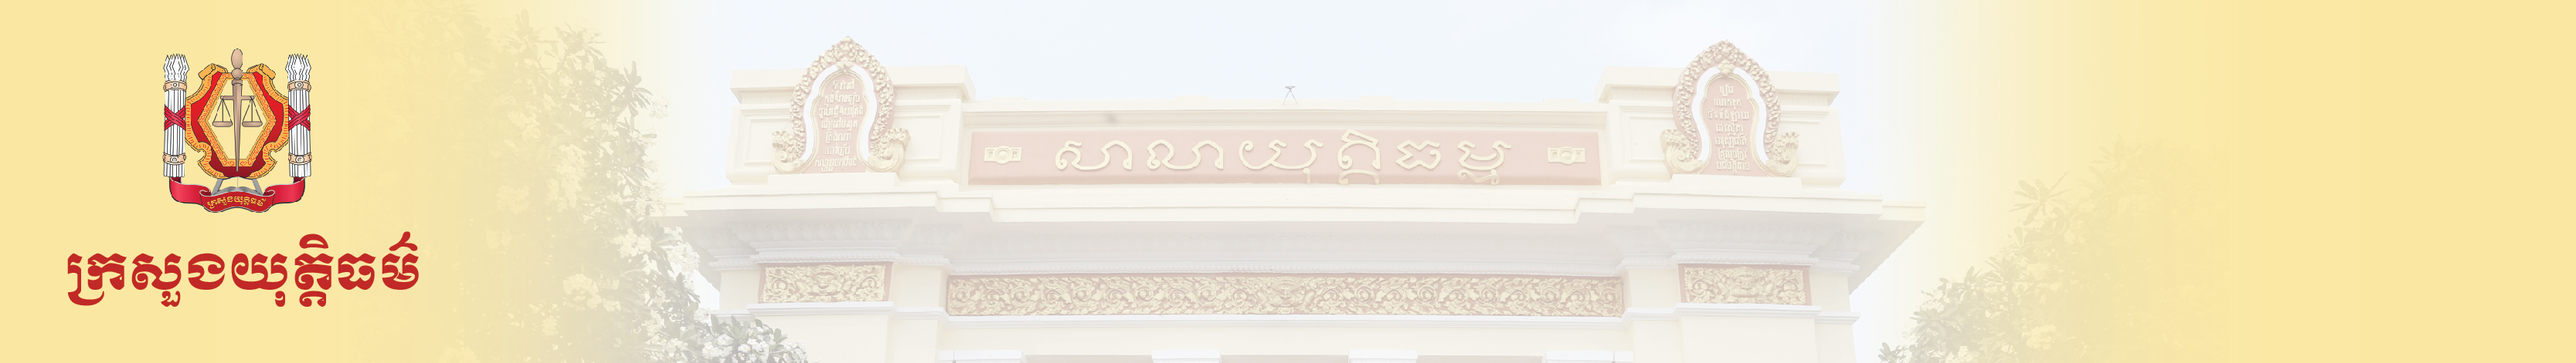
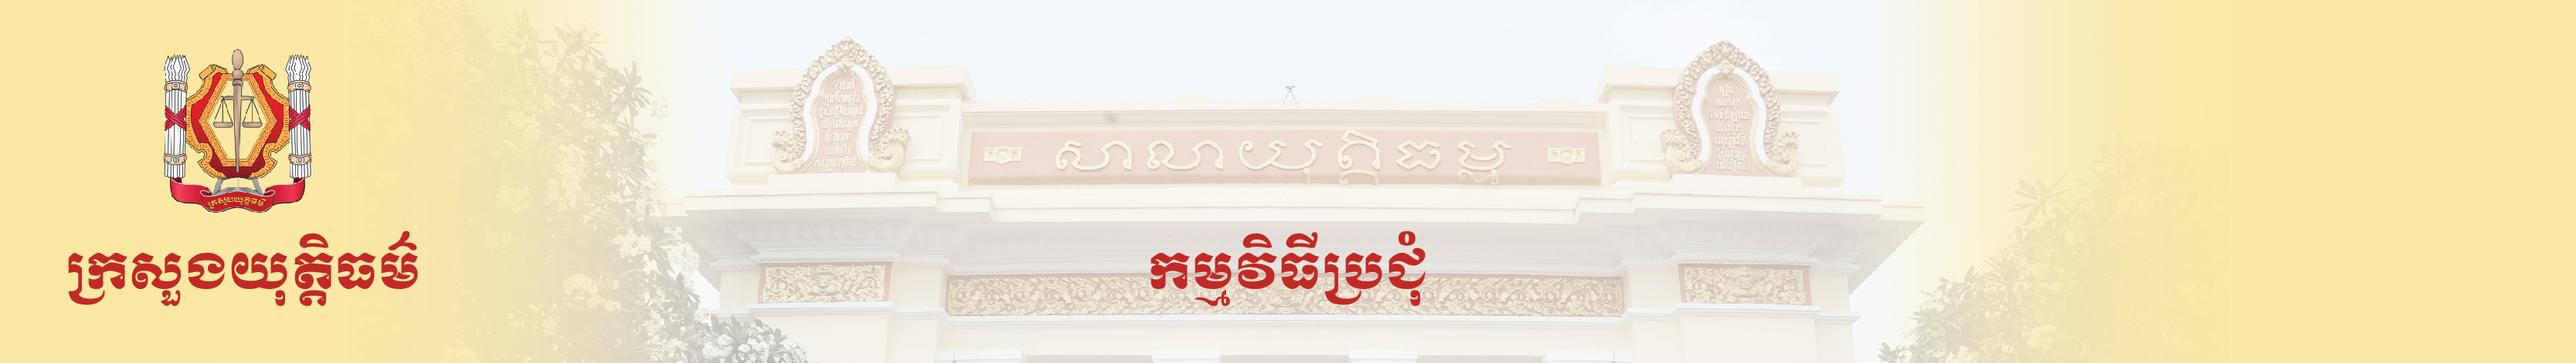
add new bugs to the codebase

Changed region(s): [[0.0624, 0.1486, 0.1248, 0.5648], [0.4367, 0.6242, 0.5615, 0.8323], [0.0312, 0.6837, 0.156, 0.8323]]

diff --git a/src/App.js b/src/App.js
@@ -57,11 +57,10 @@ export class App extends React.Component {
   async componentDidMount() {
     this.dateTimeUpdate();
     await this.fetchMeeting(this.state.date);
-    this.animationMeeting();
     setInterval(async () => {
       await this.fetchMeeting(this.state.date);
-      this.animationMeeting();
     }, 1000);
+    this.animationMeeting();
   }
 
   async fetchMeeting(endDate) {
@@ -74,38 +73,38 @@ export class App extends React.Component {
         now.getMonth(),
         now.getDate() + 1
       );
-      console.log(endDateMeeting, endDateMeeting.toISOString());
     } else if (endDate === "week") {
-      const dayToWeekend = 7 - now.getDate();
+      const dayToWeekend = 7 - now.getDay();
       endDateMeeting = new Date(
         now.getFullYear(),
         now.getMonth(),
         now.getDate() + dayToWeekend
       );
-      console.log(endDateMeeting, endDateMeeting.toISOString());
     } else if (endDate === "month") {
       endDateMeeting = new Date(now.getFullYear(), now.getMonth() + 1);
-      console.log(endDateMeeting, endDateMeeting.toISOString());
     }
     const meeting = await api.fetchMeeting(token, endDateMeeting.toISOString());
-
     console.log(meeting);
-
     if (JSON.stringify(this.state.meeting) !== JSON.stringify(meeting)) {
-      this.setState({
-        meeting,
-        loading: false,
-      });
+      this.setState(
+        {
+          meeting,
+          loading: false,
+        },
+        () => {
+          clearInterval(this.intervalId);
+          this.animationMeeting();
+        }
+      );
     }
   }
 
   animationMeeting() {
     if (this.meetingRef.current.children.length > 5) {
-      setInterval(() => {
+      this.intervalId = setInterval(() => {
         let firstElement = this.meetingRef.current.firstElementChild;
         this.meetingRef.current.children[1].classList.add("animatedDiv");
         this.meetingRef.current.firstElementChild.remove();
-
         if (firstElement.classList.contains("animatedDiv")) {
           firstElement.className = "meeting";
         }
@@ -113,7 +112,7 @@ export class App extends React.Component {
           "beforeend",
           firstElement
         );
-      }, 5000);
+      }, 12000);
     } else {
       let firstElement = this.meetingRef.current.firstElementChild;
       if (firstElement) {
@@ -183,7 +182,7 @@ export class App extends React.Component {
     const { loading, meeting } = this.state;
     const meetingRender = meeting.map((m, i) => {
       let firstClass;
-      if (i === 0) firstClass = "meeting animated";
+      if (i === 0) firstClass = "meeting animatedDiv";
       else firstClass = "meeting";
 
       var start = new Date(m.date);
@@ -278,7 +277,7 @@ export class App extends React.Component {
               <p>
                 ម៉ោង៖{" "}
                 <span className="time-header" ref={this.timeRef}>
-                  09:30
+                  ១១:៣៤
                 </span>{" "}
                 នាទី
               </p>
@@ -288,7 +287,7 @@ export class App extends React.Component {
           {/* Content Body */}
           <div className="content-container">
             {/* Content Header */}
-            <div className="content-header" style={{ marginBottom: "3px" }}>
+            {/* <div className="content-header" style={{ marginBottom: "3px" }}>
               <h3
                 style={{
                   flex: 1,
@@ -298,7 +297,7 @@ export class App extends React.Component {
               >
                 កម្មវិធីប្រជុំ
               </h3>
-            </div>
+            </div> */}
 
             <div className="content-header">
               <h3 className="date-caption">កាលបរិចេ្ឆទ</h3>
@@ -308,7 +307,7 @@ export class App extends React.Component {
             </div>
 
             {/* Content Body */}
-            <div className="content-body" ref={this.meetingRef}>
+            <div className="content-body">
               {this.state.loading && (
                 <div className="loading-container">
                   <div className="sk-chase">
@@ -321,7 +320,9 @@ export class App extends React.Component {
                   </div>
                 </div>
               )}
-              {!this.state.loading && meetingRender}
+              <div className="meetingContainerSelf" ref={this.meetingRef}>
+                {!this.state.loading && meetingRender}
+              </div>
             </div>
           </div>
         </div>
@@ -336,6 +337,7 @@ export class App extends React.Component {
                   date: "today",
                   loading: true,
                 });
+                clearInterval(this.intervalId);
               }}
             >
               ថ្ងៃនេះ
@@ -347,6 +349,7 @@ export class App extends React.Component {
                   date: "week",
                   loading: true,
                 });
+                clearInterval(this.intervalId);
               }}
             >
               សប្ដាហ៌
@@ -358,6 +361,7 @@ export class App extends React.Component {
                   loading: true,
                   date: "month",
                 });
+                clearInterval(this.intervalId);
               }}
             >
               ខែនេះ
@@ -387,7 +391,15 @@ export class App extends React.Component {
                 alt=""
                 style={{ width: "40px", height: "40px" }}
               />
-              <h3>សរុបកិច្ចប្រជុំថ្ងៃនេះ មានចំនួន 2 កិច្ចប្រជុំ</h3>
+              <h3>
+                សរុបកិច្ចប្រជុំ
+                {this.state.date === "today"
+                  ? "ថ្ងៃ"
+                  : this.state.date === "week"
+                  ? "សប្តាហ៍"
+                  : "ខែ"}
+                នេះ មានចំនួន {this.state.meeting?.length} កិច្ចប្រជុំ
+              </h3>
             </div>
             <marquee
               ref={this.marqueeRef}

diff --git a/src/App.css b/src/App.css
@@ -12,14 +12,15 @@
 }
 
 .AppContainer {
-  height: calc(100vh - 87px);
+  /* height: calc(100vh - 87px); */
+  margin-bottom: 1px;
 }
 
 .App-header {
-  padding-top: 3px;
-  height: 20vh;
+  margin-top: 3px;
+  height: 9vh;
   width: 100%;
-  background: url("./asset/meeting/meetingImg.jpg");
+  background: url("./asset/meeting/meetingImg1.jpg");
   background-position: center center;
   background-repeat: no-repeat;
   background-size: 100% 100%;
@@ -27,7 +28,7 @@
 }
 
 .date-container {
-  width: 25%;
+  width: 29%;
   text-align: center;
   margin-left: auto;
   display: flex;
@@ -84,7 +85,7 @@
   padding-left: 15px;
   font-weight: bold;
   flex: 2;
-  text-align: center;
+  padding-left: 15px;
   font-family: "Kdam Thmor", "Dangrek";
 }
 
@@ -104,10 +105,10 @@
 
 /* Content Body */
 .content-body {
-  margin-top: 5px;
+  /* margin-top: 5px; */
   margin-top: 0;
   background-color: #e7ecb2;
-  height: calc(100vh - 20vh - 40px - 43px);
+  height: 739.1px;
   overflow: hidden;
 }
 
@@ -126,8 +127,12 @@
   margin-top: -2px;
 }
 
+.content-body p {
+  margin: 0;
+}
+
 .animatedDiv {
-  animation: example 5s;
+  animation: example 12s;
   border-top: 2px solid #c32325;
   margin-top: 0px;
 }
@@ -137,11 +142,13 @@
     height: 149.3px;
     opacity: 1;
   }
+
   100% {
     height: 0px;
     opacity: 0;
   }
 }
+
 /* Date Time */
 .datetime {
   flex: 0.5;
@@ -340,14 +347,17 @@ footer {
     flex: 4;
   }
 
-  .img-header {
-    width: 100%;
-    height: 15.3vh;
+  .App-header {
+    /* width: 100%; */
+    height: 19.48vh;
   }
 }
 
 /* LG Breakpoint */
 @media only screen and (max-width: 991px) {
+  .title-container .info {
+    font-size: 1.35rem;
+  }
   .title-container .title {
     font-size: 1.4rem;
   }
@@ -366,30 +376,28 @@ footer {
 }
 
 /* <800px */
-@media only screen and (max-width: 800px) {
-}
+@media only screen and (max-width: 800px) {}
 
 /* Md breakpoint */
-@media only screen and (max-width: 767px) {
-}
+@media only screen and (max-width: 767px) {}
 
 /* Medium Screen Device*/
-@media only screen and (max-width: 600px) {
-}
+@media only screen and (max-width: 600px) {}
 
 /* Small Screen Device */
-@media only screen and (max-width: 350px) {
-}
+@media only screen and (max-width: 350px) {}
 
 .blink {
   animation: blink-animation 1.5s steps(5, start) infinite;
   -webkit-animation: blink-animation 1.5s steps(5, start) infinite;
 }
+
 @keyframes blink-animation {
   to {
     visibility: hidden;
   }
 }
+
 @-webkit-keyframes blink-animation {
   to {
     visibility: hidden;
@@ -432,36 +440,47 @@ footer {
 .sk-chase-dot:nth-child(1) {
   animation-delay: -1.1s;
 }
+
 .sk-chase-dot:nth-child(2) {
   animation-delay: -1s;
 }
+
 .sk-chase-dot:nth-child(3) {
   animation-delay: -0.9s;
 }
+
 .sk-chase-dot:nth-child(4) {
   animation-delay: -0.8s;
 }
+
 .sk-chase-dot:nth-child(5) {
   animation-delay: -0.7s;
 }
+
 .sk-chase-dot:nth-child(6) {
   animation-delay: -0.6s;
 }
+
 .sk-chase-dot:nth-child(1):before {
   animation-delay: -1.1s;
 }
+
 .sk-chase-dot:nth-child(2):before {
   animation-delay: -1s;
 }
+
 .sk-chase-dot:nth-child(3):before {
   animation-delay: -0.9s;
 }
+
 .sk-chase-dot:nth-child(4):before {
   animation-delay: -0.8s;
 }
+
 .sk-chase-dot:nth-child(5):before {
   animation-delay: -0.7s;
 }
+
 .sk-chase-dot:nth-child(6):before {
   animation-delay: -0.6s;
 }
@@ -473,6 +492,7 @@ footer {
 }
 
 @keyframes sk-chase-dot {
+
   80%,
   100% {
     transform: rotate(360deg);
@@ -483,6 +503,7 @@ footer {
   50% {
     transform: scale(0.4);
   }
+
   100%,
   0% {
     transform: scale(1);
